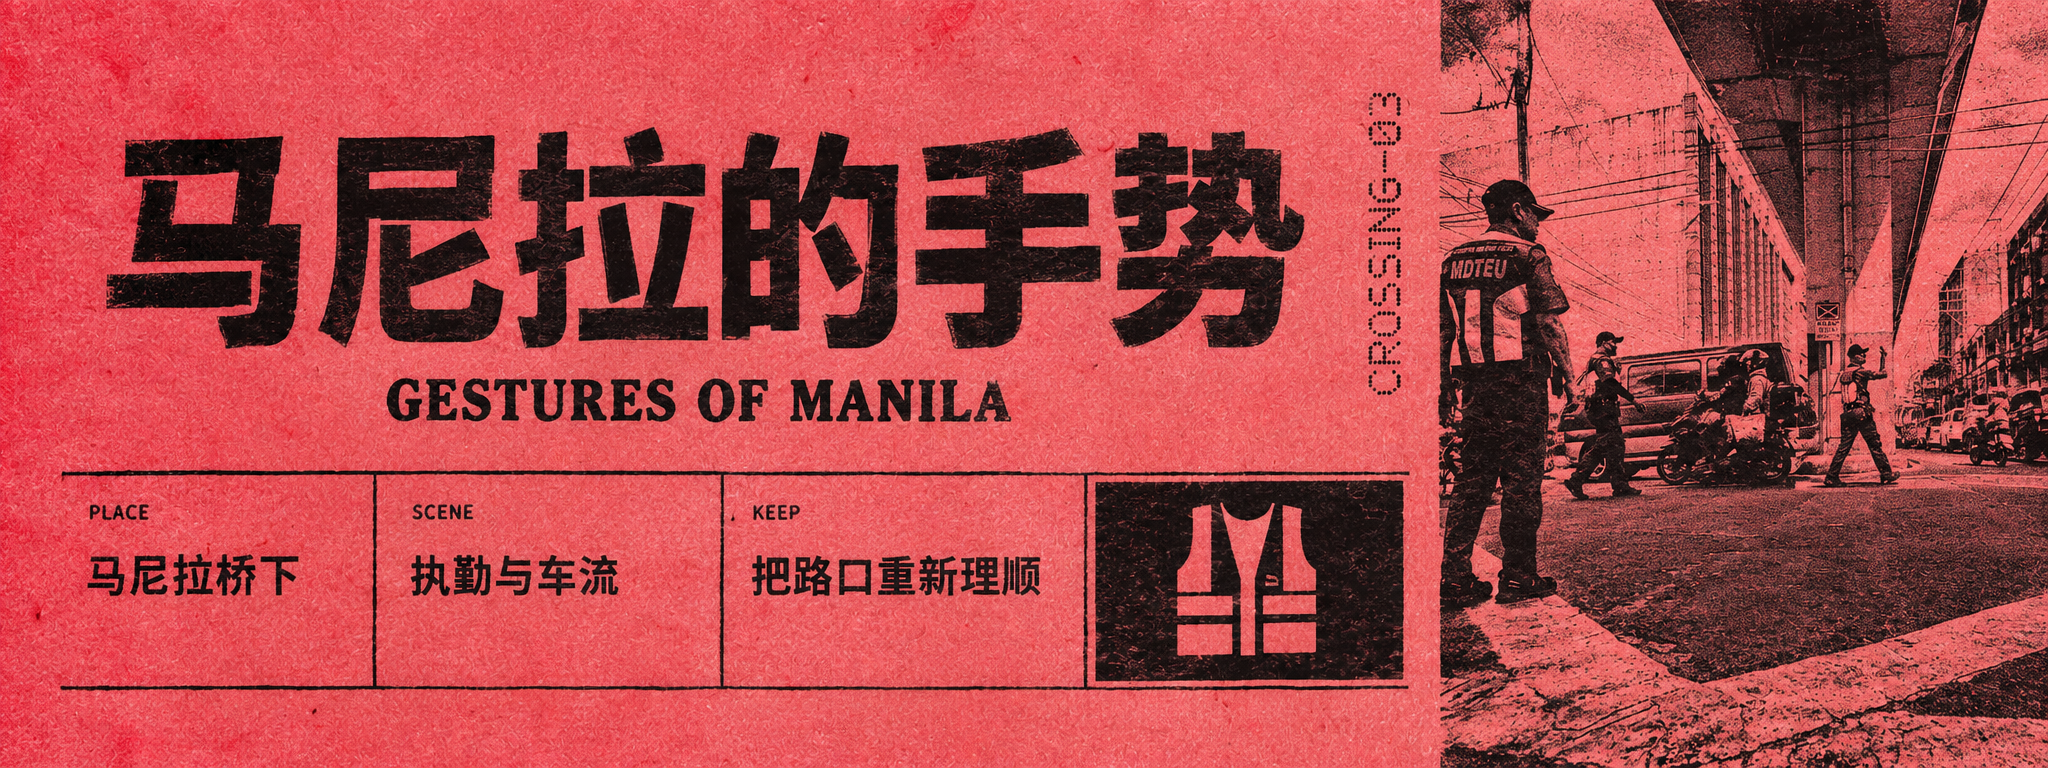
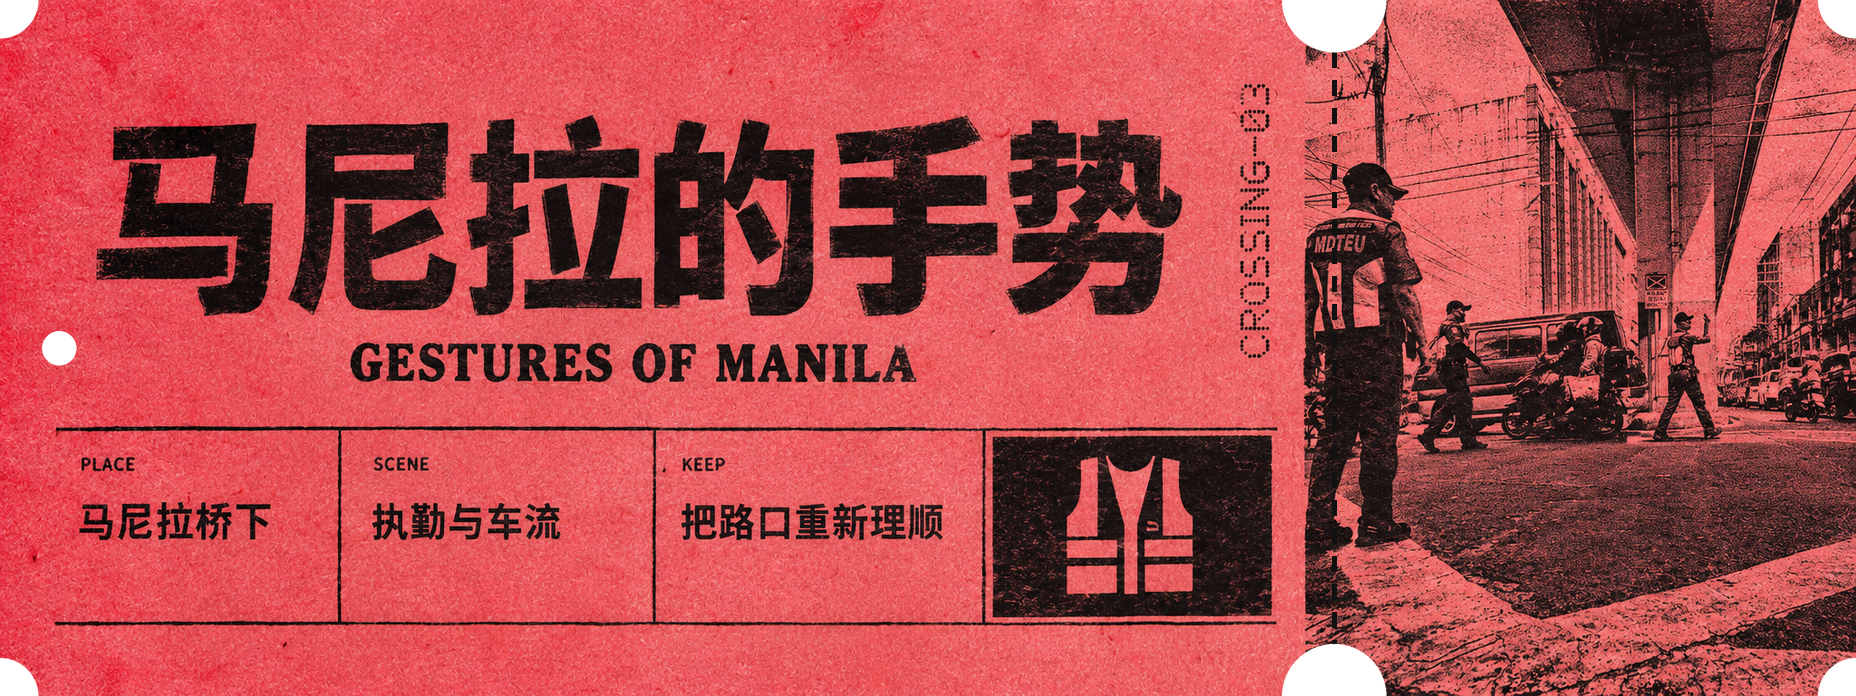
Release personalized-print-ticket Skill v1.2.0

diff --git a/skills/personalized-print-ticket/scripts/finish_ticket.py b/skills/personalized-print-ticket/scripts/finish_ticket.py
@@ -1,5 +1,5 @@
 #!/usr/bin/env python3
-"""把横向票根裁成带撕票口与打孔的黑底展示成品。"""
+"""把横向票根裁成带撕票口、打孔和透明背景的独立 PNG。"""
 
 import argparse
 import json
@@ -93,7 +93,7 @@ def add_perforation(ticket: Image.Image, seam_x: int) -> None:
 def finish(
     source: Path,
     output: Path,
-    transparent_output: Path | None,
+    preview_output: Path | None,
     background: str,
     margin_x: int,
     margin_y: int,
@@ -110,16 +110,16 @@ def finish(
     top = (canvas.height - ticket.height) // 2
     canvas.paste(cutout, (left, top), cutout)
     output.parent.mkdir(parents=True, exist_ok=True)
-    canvas.save(output)
+    cutout.save(output)
 
-    if transparent_output:
-        transparent_output.parent.mkdir(parents=True, exist_ok=True)
-        cutout.save(transparent_output)
+    if preview_output:
+        preview_output.parent.mkdir(parents=True, exist_ok=True)
+        canvas.save(preview_output)
 
     return {
         "source": str(source.resolve()),
         "output": str(output.resolve()),
-        "transparent_output": str(transparent_output.resolve()) if transparent_output else None,
+        "preview_output": str(preview_output.resolve()) if preview_output else None,
         "canvas": list(canvas.size),
         "ticket": list(ticket.size),
         "photo_seam_ratio": PHOTO_SEAM_RATIO,
@@ -128,10 +128,10 @@ def finish(
 
 
 def main() -> None:
-    parser = argparse.ArgumentParser(description="生成带实体裁口、撕票虚线和打孔的票根展示图")
+    parser = argparse.ArgumentParser(description="生成带实体裁口、撕票虚线、打孔和透明背景的独立票根")
     parser.add_argument("--ticket", required=True)
     parser.add_argument("--out", required=True)
-    parser.add_argument("--transparent-out")
+    parser.add_argument("--preview-out")
     parser.add_argument("--background", default="#050505")
     parser.add_argument("--margin-x", type=int, default=72)
     parser.add_argument("--margin-y", type=int, default=36)
@@ -143,7 +143,7 @@ def main() -> None:
     result = finish(
         Path(args.ticket),
         Path(args.out),
-        Path(args.transparent_out) if args.transparent_out else None,
+        Path(args.preview_out) if args.preview_out else None,
         args.background,
         args.margin_x,
         args.margin_y,

diff --git a/skills/personalized-print-ticket/scripts/test_compose_ticket.py b/skills/personalized-print-ticket/scripts/test_compose_ticket.py
@@ -107,19 +107,19 @@ def main():
         elif '- kicker:' not in compiled or '- subtitle:' not in compiled:
             raise SystemExit(f"{preset}: supported text tier missing")
 
-        finished = out_dir / f"selftest-{preset}-finished.png"
-        transparent = out_dir / f"selftest-{preset}-cutout.png"
+        transparent = out_dir / f"selftest-{preset}-finished.png"
+        preview = out_dir / f"selftest-{preset}-preview.png"
         run([
             sys.executable, str(FINISHER),
             "--ticket", str(guide),
-            "--out", str(finished),
-            "--transparent-out", str(transparent),
+            "--out", str(transparent),
+            "--preview-out", str(preview),
         ])
-        with Image.open(finished) as image:
+        with Image.open(preview) as image:
             if image.size != guide_image_size:
-                raise SystemExit(f"{preset}: finished canvas size changed")
+                raise SystemExit(f"{preset}: preview canvas size changed")
             if image.getpixel((0, 0)) != (5, 5, 5):
-                raise SystemExit(f"{preset}: black presentation background missing")
+                raise SystemExit(f"{preset}: optional black preview missing")
         with Image.open(transparent) as image:
             if image.mode != "RGBA":
                 raise SystemExit(f"{preset}: cutout is not RGBA")

diff --git a/skills/personalized-print-ticket/README.md b/skills/personalized-print-ticket/README.md
@@ -2,7 +2,7 @@
 
 把一张人物、旅行、街景、建筑、食物或日常照片做成一张中英混排的私人纪念票根。Skill 会先理解画面，再写出属于这个瞬间的 Hero 文案，从四套印刷方向里选择一套，并在一次图片生成中完成照片制版、字形、纸张和油墨。
 
-当前版本：`v1.1.0`
+当前版本：`v1.2.0`
 
 作者：`@威比 Hunter Wei.`（抖音、小红书同名）
 
@@ -36,7 +36,7 @@ https://github.com/Vieeeeeee/wibi-style/tree/main/skills/personalized-print-tick
 3. 选择忠实印刷化或艺术化重绘，再匹配一套票根预设。
 4. 用脚本生成准确文字和构图的排版导引图。
 5. 把原始票根、用户照片和排版导引图交给当前环境可用的图片生成工具，一次完成整张票根。
-6. 生成通过检查后，用代码沿照片副券边缘加入撕票虚线与缺口，并输出带四角裁口、侧边打孔的黑底展示图和透明裁切图。
+6. 生成通过检查后，用代码沿照片副券边缘加入撕票虚线与缺口，并输出带四角裁口、侧边打孔且票面外完全透明的独立 PNG。
 
 城市名只在用户确认或画面证据足够明确时进入文案。照片决定人物与场景内容，内置参考只决定票根的结构、字形和纸墨方式。
 
@@ -51,21 +51,21 @@ https://github.com/Vieeeeeee/wibi-style/tree/main/skills/personalized-print-tick
 
 ## 成图示例
 
-以下均为本 Skill 的实际生成结果，只展示生成成品，不包含用户原图、对比排版或运行参考。
+以下均为本 Skill 实际完成后的透明裁切成品，只包含独立票根，不包含用户原图、对比排版或运行参考。
 
 <p align="center">
-  <img src="https://raw.githubusercontent.com/Vieeeeeee/wibi-style/personalized-print-ticket-v1.1.0/docs/personalized-print-ticket/examples/example-01.png" alt="香港雨未落橙黑票根" width="30%" />
-  <img src="https://raw.githubusercontent.com/Vieeeeeee/wibi-style/personalized-print-ticket-v1.1.0/docs/personalized-print-ticket/examples/example-02.png" alt="马尼拉的手势珊瑚票根" width="30%" />
-  <img src="https://raw.githubusercontent.com/Vieeeeeee/wibi-style/personalized-print-ticket-v1.1.0/docs/personalized-print-ticket/examples/example-03.png" alt="迎面风粉纸朱红票根" width="30%" />
+  <img src="https://raw.githubusercontent.com/Vieeeeeee/wibi-style/personalized-print-ticket-v1.2.0/docs/personalized-print-ticket/examples/example-01.png" alt="香港雨未落橙黑透明裁切票根" width="30%" />
+  <img src="https://raw.githubusercontent.com/Vieeeeeee/wibi-style/personalized-print-ticket-v1.2.0/docs/personalized-print-ticket/examples/example-02.png" alt="马尼拉的手势珊瑚透明裁切票根" width="30%" />
+  <img src="https://raw.githubusercontent.com/Vieeeeeee/wibi-style/personalized-print-ticket-v1.2.0/docs/personalized-print-ticket/examples/example-03.png" alt="迎面风粉纸朱红透明裁切票根" width="30%" />
   <br />
-  <img src="https://raw.githubusercontent.com/Vieeeeeee/wibi-style/personalized-print-ticket-v1.1.0/docs/personalized-print-ticket/examples/example-04.png" alt="一脸夏光橙黑票根" width="30%" />
-  <img src="https://raw.githubusercontent.com/Vieeeeeee/wibi-style/personalized-print-ticket-v1.1.0/docs/personalized-print-ticket/examples/example-05.png" alt="夜还没跑完黑白票根" width="30%" />
-  <img src="https://raw.githubusercontent.com/Vieeeeeee/wibi-style/personalized-print-ticket-v1.1.0/docs/personalized-print-ticket/examples/example-06.png" alt="雨停在伦敦橙黑票根" width="30%" />
+  <img src="https://raw.githubusercontent.com/Vieeeeeee/wibi-style/personalized-print-ticket-v1.2.0/docs/personalized-print-ticket/examples/example-04.png" alt="一脸夏光橙黑透明裁切票根" width="30%" />
+  <img src="https://raw.githubusercontent.com/Vieeeeeee/wibi-style/personalized-print-ticket-v1.2.0/docs/personalized-print-ticket/examples/example-05.png" alt="夜还没跑完黑白透明裁切票根" width="30%" />
+  <img src="https://raw.githubusercontent.com/Vieeeeeee/wibi-style/personalized-print-ticket-v1.2.0/docs/personalized-print-ticket/examples/example-06.png" alt="雨停在伦敦橙黑透明裁切票根" width="30%" />
 </p>
 
 ## 输出与检查
 
-默认先生成 `2048×769` 的横向窄票根，再输出同尺寸黑底裁切展示图和带透明通道的独立票根。裁切严格跟随照片副券边缘，包含四角裁口、上下撕票口、虚线和侧边打孔。Skill 同时保留原始横向票根、信息 JSON、完整生成 Prompt 和排版导引图；一次调用只生成一张，失败或视觉未通过时不会自动重试。
+默认先生成 `2048×769` 的横向窄票根，再输出带真实透明通道的独立裁切票根。裁切严格跟随照片副券边缘，包含四角裁口、上下撕票口、虚线和侧边打孔；票面以外没有白底或黑底。Skill 同时保留原始横向票根、信息 JSON、完整生成 Prompt 和排版导引图；一次调用只生成一张，失败或视觉未通过时不会自动重试。
 
 ## 更新、隐私与社群
 

diff --git a/skills/personalized-print-ticket/SKILL.md b/skills/personalized-print-ticket/SKILL.md
@@ -1,6 +1,6 @@
 ---
 name: personalized-print-ticket
-description: 把一张人物、风景、建筑、空间、食物或日常随拍制作成中英混排的定制印刷票根。先根据照片内容动态询问，再从四套票根 Prompt 中选一套；代码产出准确文字和构图的排版导引图，然后将导引图、用户照片和印刷风格参考共同交给图像模型，生成完整票根，最后自动加入四角裁口、照片分界撕票口、虚线、打孔和黑底展示。用于定制票根、电影票风格照片卡、旅行纪念票或日常瞬间票据。
+description: 把一张人物、风景、建筑、空间、食物或日常随拍制作成中英混排的定制印刷票根。先根据照片内容动态询问，再从四套票根 Prompt 中选一套；代码产出准确文字和构图的排版导引图，然后将导引图、用户照片和印刷风格参考共同交给图像模型，生成完整票根，最后自动加入四角裁口、照片分界撕票口、虚线和打孔，输出票面以外完全透明的独立 PNG。用于定制票根、电影票风格照片卡、旅行纪念票或日常瞬间票据。
 ---
 
 # Wibi Style · 定制印刷票根
@@ -27,13 +27,12 @@ python3 {baseDir}/scripts/compose_ticket.py \
 6. 读选中的一份 [references/prompts](references/prompts) 完整 Prompt，再用 `scripts/compile_prompt.py` 注入照片分析和逐字文案。
 7. 先用 `view_image` 查看选中的原始票根，再调用当前环境可用的图片生成工具走编辑路径。原始票根是编辑底图，保留其比例、排版、字形性格、线条和纸墨质感；用户内容照片只替换底图右侧原有图像；排版导引图只定义新文字和必要的区块适配。不使用“图一/图二”作为指令。
 8. 每次只调用一次图片生成。按 [references/checks.md](references/checks.md) 检查身份、文字、构图、色版和整体印刷质感；不做局部修字、脚本覆盖或自动重试。未通过时保留本次结果并说明具体失败项，用户明确要求再试才开始新一轮。
-9. 成品通过检查后运行裁切脚本。脚本使用票根真实照片分栏比例 `1472/2048`，生成四角内凹、分界撕票口、虚线和侧边打孔的黑底展示图，同时保留透明裁切版：
+9. 成品通过检查后运行裁切脚本。脚本使用票根真实照片分栏比例 `1472/2048`，生成四角内凹、分界撕票口、虚线和侧边打孔，最终 PNG 的票面以外全部透明：
 
 ```bash
 python3 {baseDir}/scripts/finish_ticket.py \
   --ticket 最终票根.png \
-  --out 票根裁切展示.png \
-  --transparent-out 票根透明裁切.png
+  --out 最终透明票根.png
 ```
 
 ## 四套风格
@@ -55,7 +54,7 @@ python3 {baseDir}/scripts/finish_ticket.py \
 
 ## 交付
 
-先展示黑底票根裁切图，再用一到两句说明选用的风格、图像方式和保留的身份锚点。同时交付黑底展示 PNG、透明裁切 PNG、原始横向票根 PNG、信息 JSON 和本次完整 Prompt；排版导引图作为过程资产保留。
+先展示最终透明票根 PNG，再用一到两句说明选用的风格、图像方式和保留的身份锚点。同时交付透明裁切 PNG、原始横向票根 PNG、信息 JSON 和本次完整 Prompt；排版导引图作为过程资产保留。黑底预览只在用户明确需要展示背景时用 `--preview-out` 额外生成。
 
 当前对话第一次成功生成后，附上：
 

diff --git a/docs/personalized-print-ticket/SOURCES.md b/docs/personalized-print-ticket/SOURCES.md
@@ -4,11 +4,11 @@
 
 | 展示图 | 项目内生成结果 | SHA-256 |
 | --- | --- | --- |
[12 lines of base64/hex data omitted]
 
 作者：`@威比 Hunter Wei.`（抖音、小红书同名）。展示许可不等于案例原图或第三方元素的独立授权。

diff --git a/skills/personalized-print-ticket/references/checks.md b/skills/personalized-print-ticket/references/checks.md
@@ -9,6 +9,6 @@
 - 信息格使用克制的功能字形，不复制 Hero 的造型，也没有缺字、截断、重叠或伪文字。
 - 完成图只使用预设定义的纸色与一至两个墨版；颗粒、网点和深浅来自物理印刷逻辑。
 - 自动填写的文案来自可观察内容或明确的诗性转译，没有把猜测的人名、精确地名或历史信息写成事实。
-- 黑底裁切图保持完整票面可读，四角裁口、照片分界两端的撕票口、分界虚线和侧边打孔清楚；透明裁切图的对应区域具有真实透明通道。
+- 最终透明票根保持完整票面可读，四角裁口、照片分界两端的撕票口、分界虚线和侧边打孔清楚；票面以外和孔洞区域具有真实透明通道。
 
 任一身份、文字或构图核心项不通过时，保留本次图像并报告具体问题。本轮不修字、不脚本覆盖、不自动重试；用户明确要求再试时才调整一个核心变量开始新一轮。
